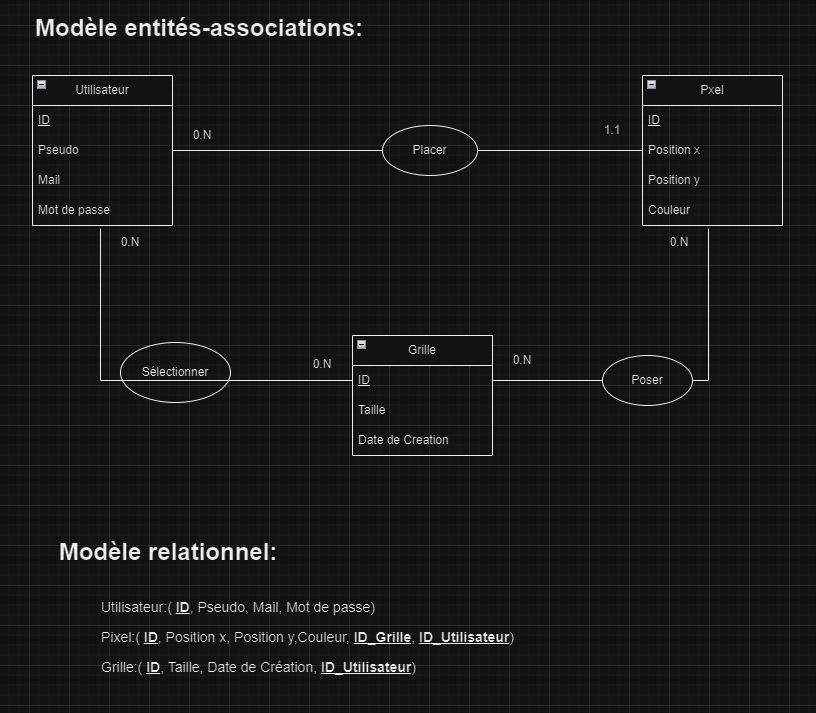
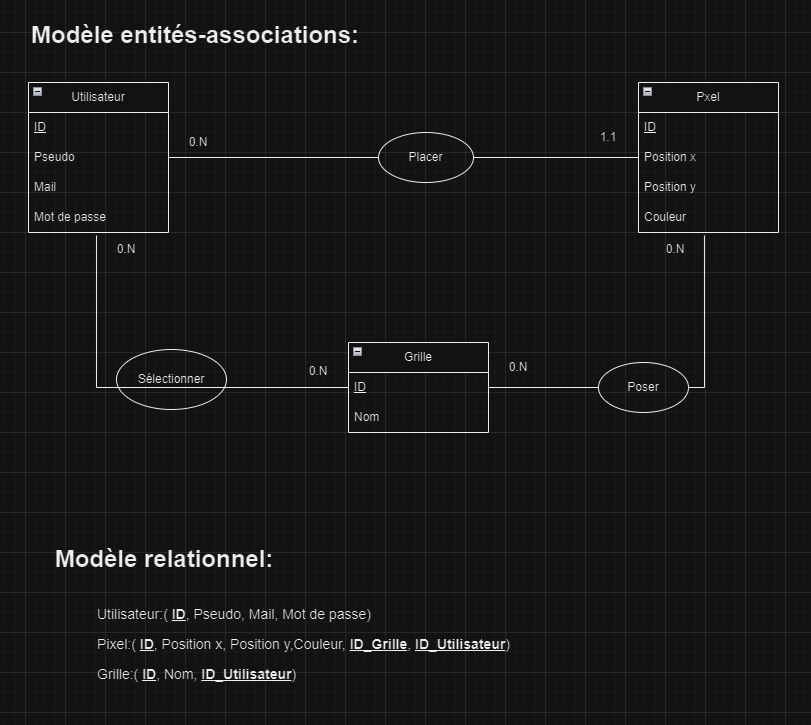
Rendre le mail facultatif et le pseudo et mdp obligatoires

diff --git a/style.css b/style.css
@@ -2,3 +2,11 @@ body{
     font-family: 'Segoe UI', Tahoma, Geneva, Verdana, sans-serif;
     
 }
+.infomsg{
+    font-size: small;
+    color: crimson;
+
+}
+.warning{
+    color: crimson;
+}

diff --git a/PageAcceuil.php b/PageAcceuil.php
@@ -1,8 +1,11 @@
 <?php
 include("config/config.inc.php");
-
+$pseudo_pris=false;
+$requis=false;
+$compte_creer=false;
 if (isset($_POST["pseudo"]) ){
 
+    
 
     //nom/mail/mdp avec des quotes pour les requettes sql
     $user_name=QuoteStr($_POST["pseudo"]);
@@ -18,9 +21,14 @@ if (isset($_POST["pseudo"]) ){
         $pseudo_pris=true;
     }
     else{
-        $sql="insert into utilisateur (pseudo,mail,mdp) values($user_name, $user_mail, $user_paswrd)";
-        ExecuteSQL($sql);
-        $pseudo_pris=false;
+        if (empty($_POST["pseudo"]) || empty($_POST["mdp"]) ) {
+            $requis=true;
+        }
+        else{
+            $sql="insert into utilisateur (pseudo,mail,mdp) values($user_name, $user_mail, $user_paswrd)";
+            ExecuteSQL($sql);
+            $compte_creer=true;
+        }
     }
 
     
@@ -42,30 +50,36 @@ if (isset($_POST["pseudo"]) ){
 
 
     <form method="POST">
+        <p class="infomsg">Les * designent les champs obligatoires</p>
+        <h3> *Entrer un nom d'utilisateur</h3>
+        <input type="text" name="pseudo" value="" >
 
-        <h3> Entrer un nom d'utilisateur</h3>
-        <input type="text" name="pseudo" value="" require>
+        <h3> Entrer votre adresse mail</h3>
+        <input type="text" name="mail" value="" >
 
-        <h3> Entrer votre mail de passe</h3>
-        <input type="text" name="mail" value="" require>
-
-        <h3> Entrer un Mpd de passe</h3>
-        <input type="password" name="mdp" value="" require>
+        <h3> *Entrer un Mpd de passe</h3>
+        <input type="password" name="mdp" value="" >
 
         <input type="submit" value="Valider">
         <br>
 
         <?php 
-        if(isset ($pseudo_pris)){
-            if($pseudo_pris){
-                echo"<div>Ce pseudo est déjà pris, veuillez prendre un autre.</div>";
+        if($pseudo_pris){
+            echo"<div>Ce pseudo est déjà pris, veuillez prendre un autre.</div>";
 
-            }
-            else{
-                echo "<div>Le compte a été crée avec succes.</div>";
-                
-            }
         }
+        else if($requis){
+            echo '<div class="warning">Les champs (*) sont obligatoires !</div>';
+        }
+        else if ($compte_creer){
+            echo "<div>Le compte a été crée avec succes.</div>";
+                
+        }
+        else{
+
+        }
+            
+        
 
         ?>
         <br>

diff --git a/affichagegrille.php b/affichagegrille.php
@@ -1,17 +1,51 @@
 <?php 
+include("config/config.inc.php");
 
-// if($_SESSION['isConnected']== false){
-//     header("Location: seconnecter.php");
 
-// };
-
+//nom de l'utilisateur avec des quotes pour les requettes sql
 $pseudo=$_GET["user"];
+$nom_grille=$_GET["nom"];
+
+//nom de l'utilisateur sans quotes 
+$pseudo_quote=QuoteStr($pseudo);
+$nom_grille_quote=QuoteStr($nom_grille);
+
 
 //condition pour ne pas permettre l'acces a cette page sans pseudo
 if($_GET['user'] == NULL){
     header("Location: seconnecter.php");
 }
 
+//requette sql qui permet de recuperer l'id de l'utilisateur.
+$sql_id="select id from `utilisateur` where pseudo = ".$pseudo_quote;
+$id=GetSQLValue($sql_id);
+$id_quote=QuoteStr($id);
+
+//selectionne toutes les grilles de cet utilisateur
+$sql_user_grille="select * from `grille` where user_id = ".$id_quote;
+echo "id grille :".GetSQL($sql_user_grille,$grille_utilisateur);
+echo "<br>";
+
+//selectionne toutes les grilles 
+$sql_grille="select * from `grille`";
+$nbr_grille= GetSQL($sql_grille,$grille);
+
+echo "GetSQL:".$nbr_grille;
+echo "<br>";
+echo "Il ya ".$nbr_grille." grilles au totale";
+// for($i=0;$i<$sql_grille;$i++){
+//     //echo $grille[$i];
+// }
+// echo "<br>";
+
+if (isset($_POST["ajout_grille"]) ){
+   
+    $sql="insert into grille(user_id) values($id_quote)";
+    ExecuteSQL($sql);
+    echo "<br>";
+    echo "Vous avez ajouter une grille!";
+
+}
 
 
 ?>
@@ -28,11 +62,17 @@ if($_GET['user'] == NULL){
 <body>
     <?php echo "<h1>Bienvenue a PixelWar ".$pseudo." </h1>";
     
-    echo "<h2> Selection de Grilles</h2>";    
-    ?>
-    <form method="post">
+    echo "<h2> Selection de Grilles</h2>";
+     
 
-    <input type="submit" value="+ Creation de nouvelle grille ">
+
+    ?>
+
+
+    <form method="post">
+    <p>Nom de votre nouvelle grille</p>
+    <input type="text" name="nom" value="" require>
+    <input type="submit" value="+ Creation de nouvelles grilles" name="ajout_grille">
 
     </form>
 
